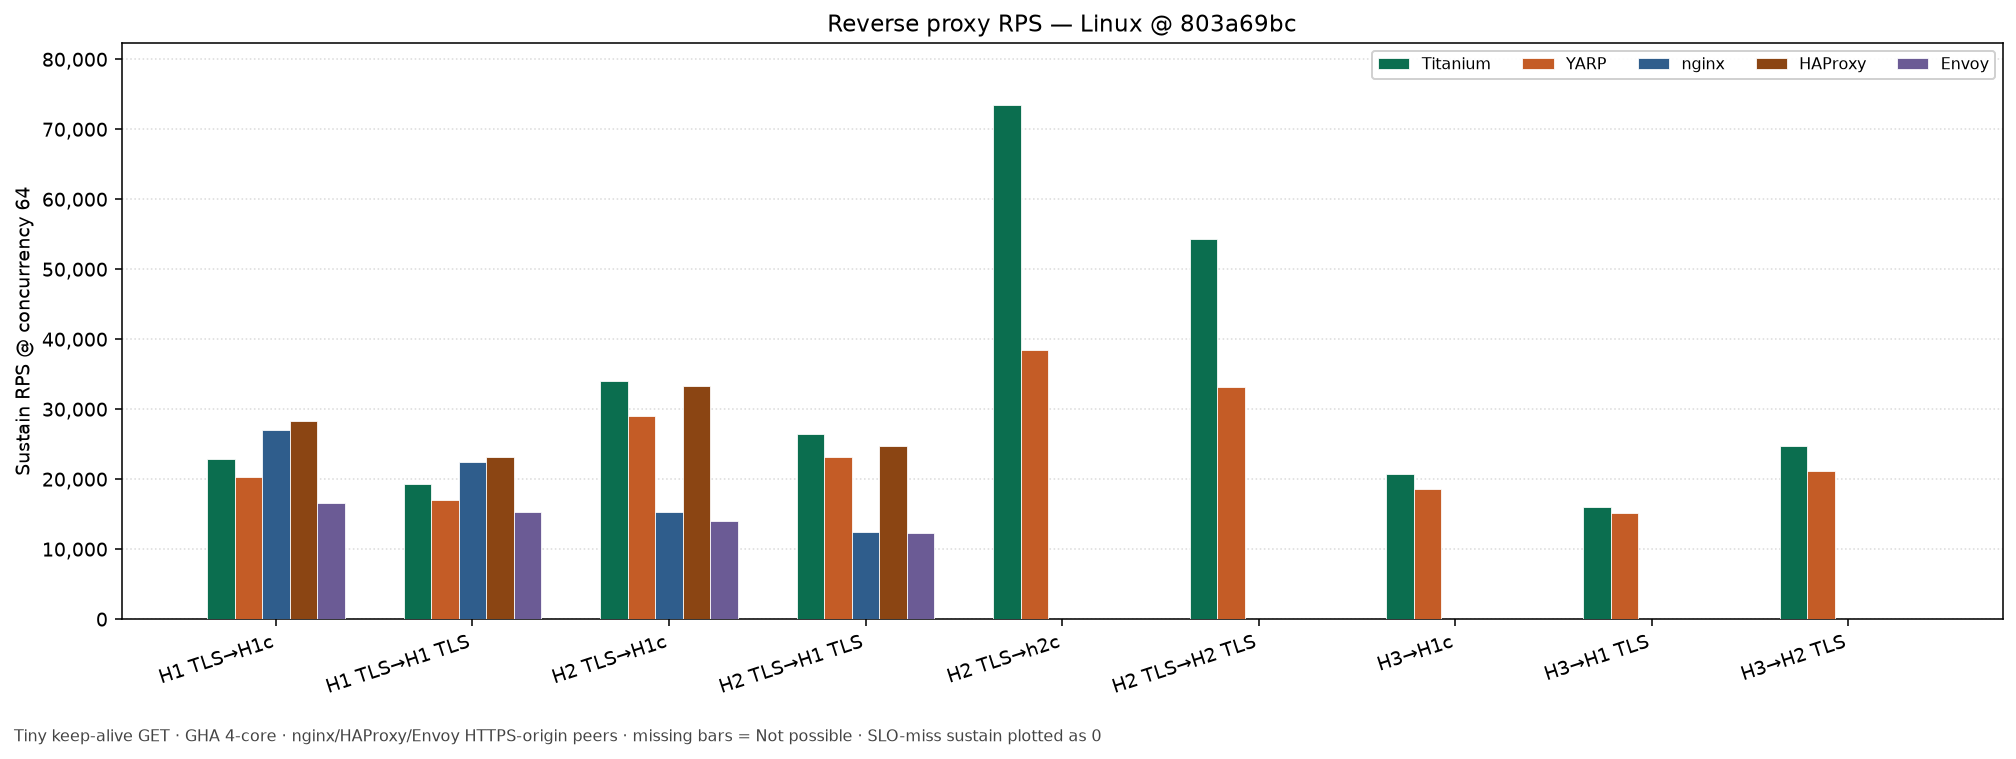
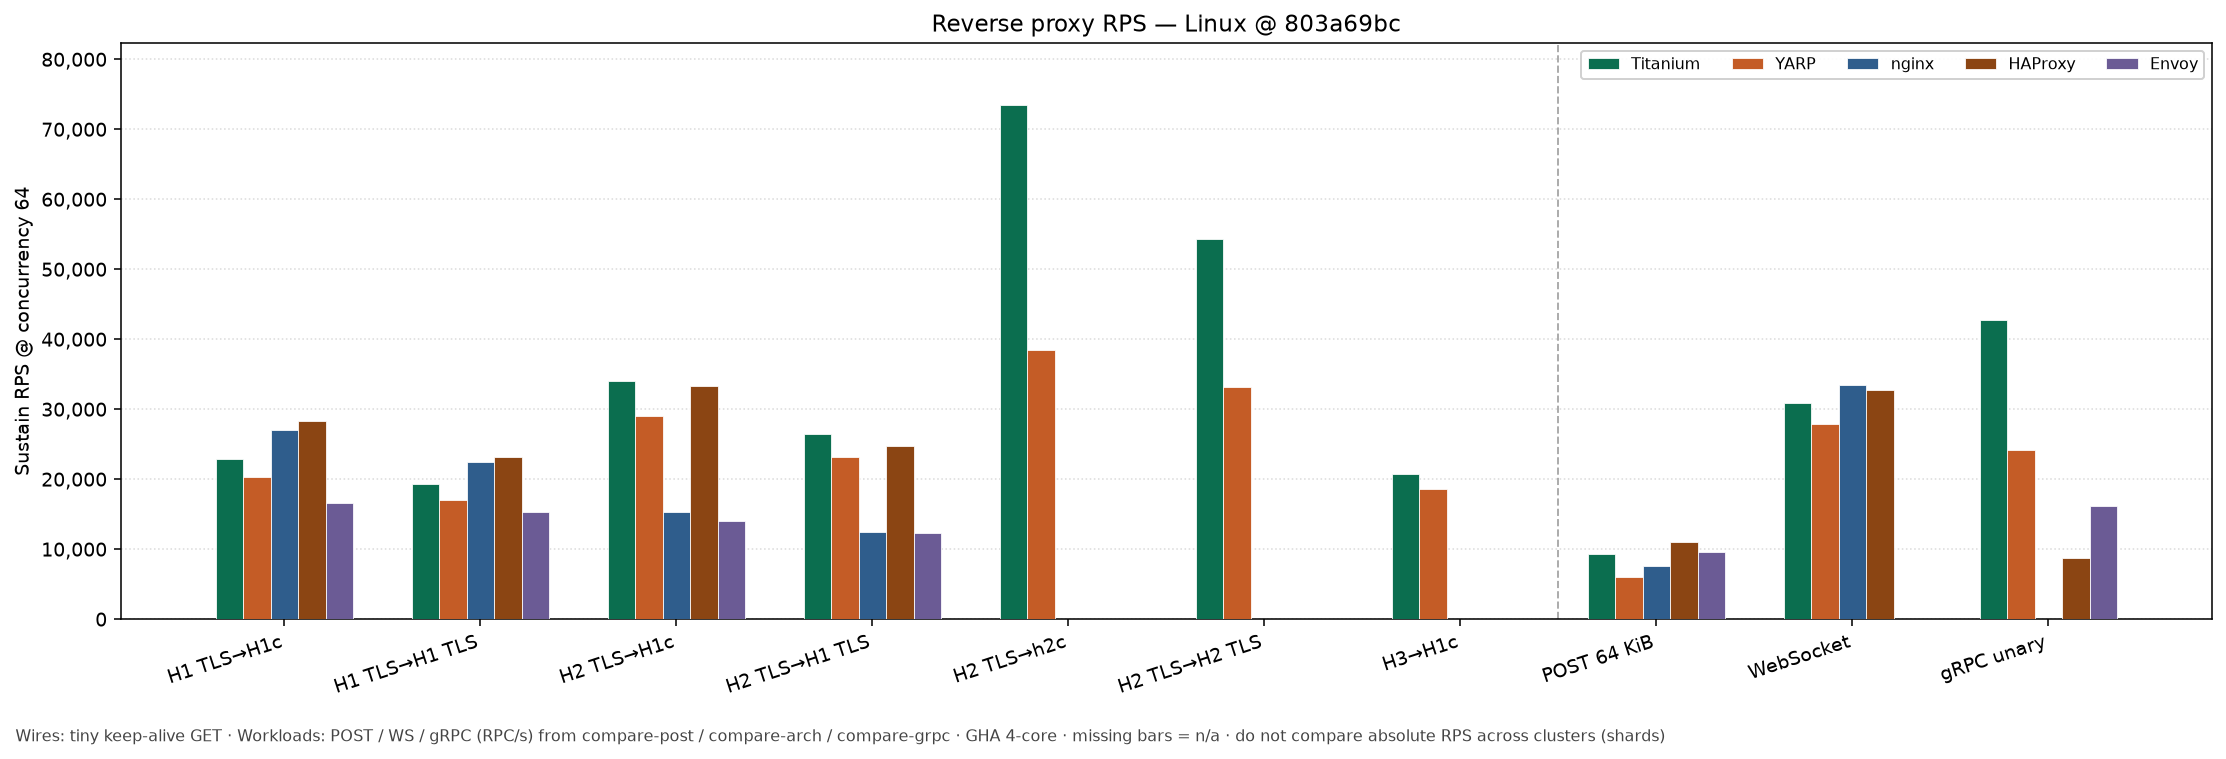
Merge practical RPS charts into one 10-cluster image per OS.
Fold industry wires with POST, WebSocket, and gRPC so README and the website show a single practical chart instead of separate Chart A/B images.

diff --git a/tools/RpsLoadProbe/render-practical-charts.py b/tools/RpsLoadProbe/render-practical-charts.py
@@ -1,15 +1,17 @@
 #!/usr/bin/env python3
 """Render practical reverse-proxy RPS grouped bar charts (TWP / YARP / nginx / HAProxy / Envoy).
 
-Reads compare-product CSVs (same sustain @ c=64 rule as paste-compare-product-wiki.ps1)
-and writes PNGs for README (Linux) and the website (Win / Linux / macOS).
+One PNG per OS: seven industry reverse wires (tiny keep-alive GET) plus POST 64 KiB /
+WebSocket / gRPC unary (10 clusters). Writes README (Linux) and website (Win / Linux / macOS).
 
 Example:
   python3 tools/RpsLoadProbe/render-practical-charts.py \\
-    --results-root tools/RpsLoadProbe/results/gha-dl/33480574506,33480581234 \\
-    --chart-b --chart-b-post-root tools/RpsLoadProbe/results/gha-dl/34394866049 \\
+    --results-root tools/RpsLoadProbe/results/gha-dl/<productRunId> \\
+    --post-root tools/RpsLoadProbe/results/gha-dl/<postRunId> \\
+    --arch-root tools/RpsLoadProbe/results/gha-dl/<archRunId> \\
+    --grpc-root tools/RpsLoadProbe/results/gha-dl/<grpcRunId> \\
     --out-dir wiki/images \\
-    --title-suffix '@ af6feb9c'
+    --title-suffix '@ <sha>'
 """
 
 from __future__ import annotations
@@ -21,7 +23,7 @@ from typing import Dict, Iterable, List, Optional, Sequence, Tuple, Union
 
 # Practical industry reverse wires (short labels → CSV arm names).
 # nginx H2/H3 origin stays None (stock nginx has no H2/H3 upstream). HAProxy/Envoy
-# H2→h2c / H2→H2 / H3→H2 arms are wired in the harness; missing CSV rows show n/a.
+# H2→h2c / H2→H2 arms are wired in the harness; missing CSV rows show n/a.
 PRACTICAL_ARMS: List[Tuple[str, str, str, Optional[str], Optional[str], Optional[str]]] = [
     # label, twp, yarp, nginx, haproxy, envoy (None = product-impossible)
     (
@@ -80,22 +82,6 @@ PRACTICAL_ARMS: List[Tuple[str, str, str, Optional[str], Optional[str], Optional
         "haproxy-reverse-http3-cleartext",
         "envoy-reverse-http3-cleartext",
     ),
-    (
-        "H3→H1 TLS",
-        "twp-reverse-http3-to-https-http1",
-        "yarp-reverse-http3-to-https-http1",
-        "nginx-reverse-http3-to-https-http1",
-        "haproxy-reverse-http3-to-https-http1",
-        "envoy-reverse-http3-to-https-http1",
-    ),
-    (
-        "H3→H2 TLS",
-        "twp-reverse-http3-to-http2",
-        "yarp-reverse-http3-to-http2",
-        None,
-        "haproxy-reverse-http3-to-http2",
-        "envoy-reverse-http3-to-http2",
-    ),
 ]
 
 COLORS = {
@@ -108,18 +94,8 @@ COLORS = {
 
 PRODUCTS = ("Titanium", "YARP", "nginx", "HAProxy", "Envoy")
 
-# Chart B — industry workloads @ c=64 (Linux); arms may live in different compare-* CSVs.
+# Workload clusters @ c=64 (no Tiny GET — that is H1 TLS→H1c above).
 INDUSTRY_WORKLOADS: List[Tuple[str, Dict[str, Optional[str]]]] = [
-    (
-        "Tiny GET",
-        {
-            "Titanium": "twp-reverse-http1-tls",
-            "YARP": "yarp-reverse-http1-tls",
-            "nginx": "nginx-reverse-http1-tls",
-            "HAProxy": "haproxy-reverse-http1-tls",
-            "Envoy": "envoy-reverse-http1-tls",
-        },
-    ),
     (
         "POST 64 KiB",
         {
@@ -152,10 +128,18 @@ INDUSTRY_WORKLOADS: List[Tuple[str, Dict[str, Optional[str]]]] = [
     ),
 ]
 
+WIRE_COUNT = len(PRACTICAL_ARMS)
+
 OS_SPECS = (
     ("linux", "Linux", ("ubuntu-latest",)),
     ("windows", "Windows", ("windows-latest",)),
     ("macos", "macOS", ("macos-15-intel", "macos-latest")),
+)
+
+MERGED_FOOTER = (
+    "Wires: tiny keep-alive GET · Workloads: POST / WS / gRPC (RPC/s) from compare-post / "
+    "compare-arch / compare-grpc · GHA 4-core · missing bars = n/a · do not compare absolute "
+    "RPS across clusters (shards)"
 )
 
 
@@ -210,7 +194,9 @@ def find_csv(results_root: Path, os_keys: Iterable[str]) -> Optional[Path]:
     for key in os_keys:
         for pattern in (
             f"rps-csv-{key}/*.csv",
+            f"rps-csv-{key}-*/*.csv",
             f"{key}/*.csv",
+            f"**/*{key}*/**/*.csv",
             f"**/*{key}*.csv",
         ):
             hits = sorted(results_root.glob(pattern))
@@ -231,7 +217,7 @@ def find_csvs(results_roots: Sequence[Path], os_keys: Iterable[str]) -> List[Pat
 
 
 def gha_dl_sibling_roots(results_root: Path) -> List[Path]:
-    """Other gha-dl/<runId> folders beside a primary run (for Chart B defaults)."""
+    """Other gha-dl/<runId> folders beside a primary run (workload CSV defaults)."""
     run_dir = results_root
     if not run_dir.is_dir():
         run_dir = results_root.parent
@@ -279,14 +265,12 @@ def collect_series(csv_paths: Sequence[Path]) -> Dict[str, List[Optional[float]]
 
 
 def collect_industry_series(
-    product_csvs: Sequence[Path],
     post_csvs: Sequence[Path],
     arch_csvs: Sequence[Path],
     grpc_csvs: Sequence[Path],
 ) -> Dict[str, List[Optional[float]]]:
-    """Chart B: Tiny GET / POST / WebSocket / gRPC @ c=64 from mode-specific CSV unions."""
+    """POST / WebSocket / gRPC @ c=64 from mode-specific CSV unions."""
     sources = {
-        "Tiny GET": product_csvs,
         "POST 64 KiB": post_csvs,
         "WebSocket": arch_csvs,
         "gRPC unary": grpc_csvs,
@@ -309,6 +293,13 @@ def collect_industry_series(
     return out
 
 
+def merge_series(
+    wire: Dict[str, List[Optional[float]]],
+    workload: Dict[str, List[Optional[float]]],
+) -> Dict[str, List[Optional[float]]]:
+    return {p: list(wire[p]) + list(workload[p]) for p in PRODUCTS}
+
+
 def render_chart(
     series: Dict[str, List[Optional[float]]],
     os_title: str,
@@ -316,6 +307,7 @@ def render_chart(
     title_suffix: str,
     labels: Optional[Sequence[str]] = None,
     footer: Optional[str] = None,
+    workload_start: Optional[int] = None,
 ) -> None:
     import matplotlib
 
@@ -328,7 +320,8 @@ def render_chart(
     width = 0.14
     offsets = tuple((i - 2) * width for i in range(5))
 
-    fig, ax = plt.subplots(figsize=(14.5, 5.4), dpi=140)
+    fig_w = 16.0 if len(labels) >= 10 else 14.5
+    fig, ax = plt.subplots(figsize=(fig_w, 5.4), dpi=140)
     ymax = 1.0
     for product, offset in zip(PRODUCTS, offsets):
         vals = series[product]
@@ -351,6 +344,16 @@ def render_chart(
             elif h > 0:
                 ymax = max(ymax, h)
 
+    if workload_start is not None and 0 < workload_start < len(labels):
+        ax.axvline(
+            workload_start - 0.5,
+            color="#888888",
+            linestyle="--",
+            linewidth=1.0,
+            zorder=2,
+            alpha=0.7,
+        )
+
     ax.set_ylabel("Sustain RPS @ concurrency 64")
     title = f"Reverse proxy RPS — {os_title}"
     if title_suffix:
@@ -366,11 +369,7 @@ def render_chart(
     fig.text(
         0.01,
         0.01,
-        footer
-        or (
-            "Tiny keep-alive GET · GHA 4-core · nginx/HAProxy/Envoy HTTPS-origin peers · "
-            "missing bars = Not possible · SLO-miss sustain plotted as 0"
-        ),
+        footer or MERGED_FOOTER,
         fontsize=8,
         color="#444444",
     )
@@ -386,7 +385,7 @@ def main() -> int:
         "--results-root",
         action="append",
         default=[],
-        help="gha-dl/<runId> folder(s); comma-separated or repeat flag (union CSVs, first wins)",
+        help="gha-dl/<runId> folder(s) for compare-product; comma-separated or repeat flag",
     )
     ap.add_argument("--csv-linux", type=Path)
     ap.add_argument("--csv-windows", type=Path)
@@ -400,27 +399,22 @@ def main() -> int:
         help="Subset of OS charts (default: all with a CSV)",
     )
     ap.add_argument(
-        "--chart-b",
-        action="store_true",
-        help="Also render rps-industry-workloads-linux.png (Chart B)",
-    )
-    ap.add_argument(
-        "--chart-b-post-root",
+        "--post-root",
         action="append",
         default=[],
-        help="compare-post run root(s) for Chart B POST arm",
+        help="compare-post run root(s) for POST 64 KiB cluster",
     )
     ap.add_argument(
-        "--chart-b-arch-root",
+        "--arch-root",
         action="append",
         default=[],
-        help="compare-arch run root(s) for Chart B WebSocket arm",
+        help="compare-arch run root(s) for WebSocket cluster",
     )
     ap.add_argument(
-        "--chart-b-grpc-root",
+        "--grpc-root",
         action="append",
         default=[],
-        help="compare-grpc run root(s) for Chart B gRPC arm",
+        help="compare-grpc run root(s) for gRPC unary cluster",
     )
     args = ap.parse_args()
 
@@ -443,20 +437,43 @@ def main() -> int:
     if not csv_lists_by_os:
         ap.error("Provide --results-root and/or --csv-linux/--csv-windows/--csv-macos")
 
+    sibling_roots = gha_dl_sibling_roots(results_roots[0]) if results_roots else []
+    post_roots = parse_path_list(args.post_root) or results_roots or sibling_roots
+    arch_roots = parse_path_list(args.arch_root) or results_roots or sibling_roots
+    grpc_roots = parse_path_list(args.grpc_root) or results_roots or sibling_roots
+
     wanted = set(args.os) if args.os else set(csv_lists_by_os)
     suffix = args.title_suffix.strip()
     written = []
+    labels = [a[0] for a in PRACTICAL_ARMS] + [w[0] for w in INDUSTRY_WORKLOADS]
+
     for key, title, folder_keys in OS_SPECS:
         if key not in wanted or key not in csv_lists_by_os:
             continue
         paths = csv_lists_by_os[key]
-        series = collect_series(paths)
+        post_csvs = find_csvs(post_roots, folder_keys)
+        arch_csvs = find_csvs(arch_roots, folder_keys)
+        grpc_csvs = find_csvs(grpc_roots, folder_keys)
+        wire = collect_series(paths)
+        workload = collect_industry_series(post_csvs, arch_csvs, grpc_csvs)
+        series = merge_series(wire, workload)
         out = args.out_dir / f"rps-practical-{key}.png"
-        render_chart(series, title, out, suffix)
+        render_chart(
+            series,
+            title,
+            out,
+            suffix,
+            labels=labels,
+            footer=MERGED_FOOTER,
+            workload_start=WIRE_COUNT,
+        )
         written.append(out)
         src = ", ".join(str(p) for p in paths)
-        print(f"{title} ← {src}")
-        for i, (label, *_rest) in enumerate(PRACTICAL_ARMS):
+        print(f"{title} <- product: {src}")
+        print(
+            f"  workloads <- post={len(post_csvs)} arch={len(arch_csvs)} grpc={len(grpc_csvs)} CSV(s)"
+        )
+        for i, label in enumerate(labels):
             parts = []
             for product in PRODUCTS:
                 v = series[product][i]
@@ -466,49 +483,6 @@ def main() -> int:
                 f"HAProxy={parts[3]} Envoy={parts[4]}"
             )
         print(f"  wrote {out}")
-
-    render_chart_b = args.chart_b or bool(
-        args.chart_b_post_root or args.chart_b_arch_root or args.chart_b_grpc_root
-    )
-    if render_chart_b:
-        linux_keys = ("ubuntu-latest",)
-        product_csvs = csv_lists_by_os.get("linux") or find_csvs(results_roots, linux_keys)
-        sibling_roots = gha_dl_sibling_roots(results_roots[0]) if results_roots else []
-        post_roots = parse_path_list(args.chart_b_post_root) or results_roots or sibling_roots
-        arch_roots = parse_path_list(args.chart_b_arch_root) or results_roots or sibling_roots
-        grpc_roots = parse_path_list(args.chart_b_grpc_root) or results_roots or sibling_roots
-        post_csvs = find_csvs(post_roots, linux_keys)
-        arch_csvs = find_csvs(arch_roots, linux_keys)
-        grpc_csvs = find_csvs(grpc_roots, linux_keys)
-        if product_csvs:
-            series_b = collect_industry_series(product_csvs, post_csvs, arch_csvs, grpc_csvs)
-            labels_b = [w[0] for w in INDUSTRY_WORKLOADS]
-            out_b = args.out_dir / "rps-industry-workloads-linux.png"
-            render_chart(
-                series_b,
-                "Linux — industry workloads",
-                out_b,
-                suffix,
-                labels=labels_b,
-                footer=(
-                    "Industry workloads @ c=64 · GET from compare-product · POST / WS / gRPC from "
-                    "compare-post / compare-arch / compare-grpc · missing bars = n/a"
-                ),
-            )
-            written.append(out_b)
-            print("Linux — industry workloads (Chart B)")
-            for i, (label, _) in enumerate(INDUSTRY_WORKLOADS):
-                parts = []
-                for product in PRODUCTS:
-                    v = series_b[product][i]
-                    parts.append("n/a" if v is None else f"{v:.0f}")
-                print(
-                    f"  {label}: TWP={parts[0]} YARP={parts[1]} nginx={parts[2]} "
-                    f"HAProxy={parts[3]} Envoy={parts[4]}"
-                )
-            print(f"  wrote {out_b}")
-        else:
-            print("Chart B: no Linux product CSV found.", file=__import__("sys").stderr)
 
     if not written:
         print("No charts written (no matching CSVs).", file=__import__("sys").stderr)

diff --git a/tools/RpsLoadProbe/README.md b/tools/RpsLoadProbe/README.md
@@ -142,17 +142,20 @@ Two TWP-only MITM shapes on the same Client×Origin wires (+ CONNECT). nginx/YAR
 
 ### Practical reverse charts (README / website)
 
-After downloading a `compare-product` CSV set:
+One PNG per OS with **10 clusters**: seven industry reverse wires (tiny keep-alive GET) plus POST 64 KiB / WebSocket / gRPC unary. After downloading `compare-product` plus heavier roots:
 
 ```bash
 pip install -r tools/RpsLoadProbe/requirements-charts.txt
 python3 tools/RpsLoadProbe/render-practical-charts.py \
-  --results-root tools/RpsLoadProbe/results/gha-dl/<runId> \
+  --results-root tools/RpsLoadProbe/results/gha-dl/<productRunId> \
+  --post-root tools/RpsLoadProbe/results/gha-dl/<postRunId> \
+  --arch-root tools/RpsLoadProbe/results/gha-dl/<archRunId> \
+  --grpc-root tools/RpsLoadProbe/results/gha-dl/<grpcRunId> \
   --out-dir wiki/images \
   --title-suffix '@ <sha>'
 ```
 
-Writes `wiki/images/rps-practical-{linux,windows,macos}.png` (Linux also embeds in the repo README; all three on the website Performance page). Five series: Titanium / YARP / nginx / HAProxy / Envoy.
+Writes `wiki/images/rps-practical-{linux,windows,macos}.png` (Linux also embeds in the repo README; all three on the website Performance page). Five series: Titanium / YARP / nginx / HAProxy / Envoy. Wires: H1 TLS→H1c · H1 TLS→H1 TLS · H2 TLS→H1c · H2 TLS→H1 TLS · H2 TLS→h2c · H2 TLS→H2 TLS · H3→H1c. Workloads fold in from `--post-root` / `--arch-root` / `--grpc-root` (or sibling `gha-dl/` folders when omitted).
 
 ### Heavier workload charts
 

diff --git a/website/docs/performance.md b/website/docs/performance.md
@@ -8,7 +8,7 @@ On matched **GitHub Actions 4 vCPU / 16 GiB** runners, compare **TWP÷YARP** (ga
 
 ## Practical reverse RPS (CI)
 
-Sustain RPS @ concurrency 64 for common reverse wires (tiny keep-alive GET). Grouped bars: Titanium / YARP / nginx / HAProxy / Envoy. Missing bars mean *Not possible* for that wire or OS (e.g. Windows HAProxy/Envoy, nginx without H2/H3 upstream). Regenerate with [`render-practical-charts.py`](https://github.com/justcoding121/titanium-web-proxy/blob/develop/tools/RpsLoadProbe/render-practical-charts.py) after `compare-product` (union sharded CSV roots when `arm_shard` was used).
+Sustain RPS @ concurrency 64 — **10 clusters** per OS: seven industry reverse wires (tiny keep-alive GET) plus POST 64 KiB / WebSocket / unary gRPC (RPC/s). Wires: H1 TLS→H1c · H1 TLS→H1 TLS · H2 TLS→H1c · H2 TLS→H1 TLS · H2 TLS→h2c · H2 TLS→H2 TLS · H3→H1c. Grouped bars: Titanium / YARP / nginx / HAProxy / Envoy. Missing bars mean *Not possible* / n/a for that wire or OS (e.g. Windows HAProxy/Envoy, nginx without H2/H3 upstream). Do not compare absolute RPS across clusters (shards). Regenerate with [`render-practical-charts.py`](https://github.com/justcoding121/titanium-web-proxy/blob/develop/tools/RpsLoadProbe/render-practical-charts.py) after `compare-product` plus `--post-root` / `--arch-root` / `--grpc-root` (union sharded CSV roots when `arm_shard` was used).
 
 ### Windows
 

diff --git a/README.md b/README.md
@@ -23,11 +23,9 @@ Protocol coverage details: [protocol support matrix](https://github.com/justcodi
 
 ## Performance
 
-![Practical reverse proxy throughput on Linux (Chart A)](wiki/images/rps-practical-linux.png)
+![Practical reverse proxy throughput on Linux](wiki/images/rps-practical-linux.png)
 
-![Industry workloads on Linux — Tiny GET / POST 64 KiB / WebSocket / gRPC (Chart B)](wiki/images/rps-industry-workloads-linux.png)
-
-**RPS** is requests per second (Chart B gRPC bars are **RPC/s**). Same-harness comparisons vs **YARP** (gated), **nginx**, **HAProxy**, and **Envoy** on matched GitHub Actions runners — see [Performance](https://github.com/justcoding121/titanium-web-proxy/wiki/Performance). Chart A: industry reverse wires (including H2 TLS→h2c). Chart B: Tiny GET · POST 64 KiB · WebSocket · unary gRPC @ c=64.
+**RPS** is requests per second (gRPC bars are **RPC/s**). Same-harness comparisons vs **YARP** (gated), **nginx**, **HAProxy**, and **Envoy** on matched GitHub Actions runners — see [Performance](https://github.com/justcoding121/titanium-web-proxy/wiki/Performance). Clusters @ c=64: H1 TLS→H1c · H1 TLS→H1 TLS · H2 TLS→H1c · H2 TLS→H1 TLS · H2 TLS→h2c · H2 TLS→H2 TLS · H3→H1c · POST 64 KiB · WebSocket · unary gRPC.
 
 ## Choose an edition
 

diff --git a/website/index.md b/website/index.md
@@ -56,7 +56,7 @@ features:
 
 ## Performance
 
-Same-harness reverse RPS vs **YARP** (gated), **nginx**, **HAProxy**, and **Envoy** on matched GitHub Actions runners. One Linux chart here; Windows, macOS, and heavier workloads live on the [performance](/docs/performance) page.
+Same-harness reverse RPS vs **YARP** (gated), **nginx**, **HAProxy**, and **Envoy** on matched GitHub Actions runners — industry wires plus POST / WebSocket / gRPC @ c=64. One Linux chart here; Windows, macOS, and heavier workloads live on the [performance](/docs/performance) page.
 
 <div class="rps-preview">
 
